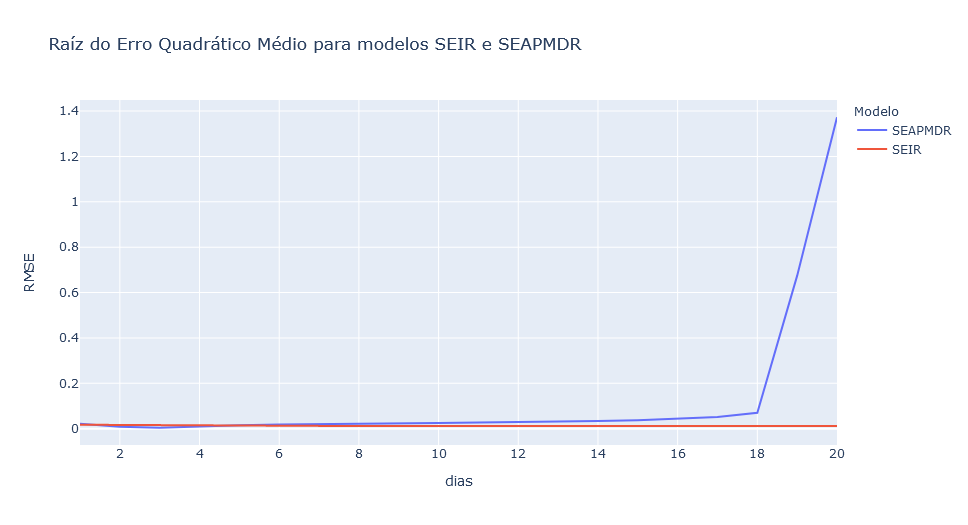
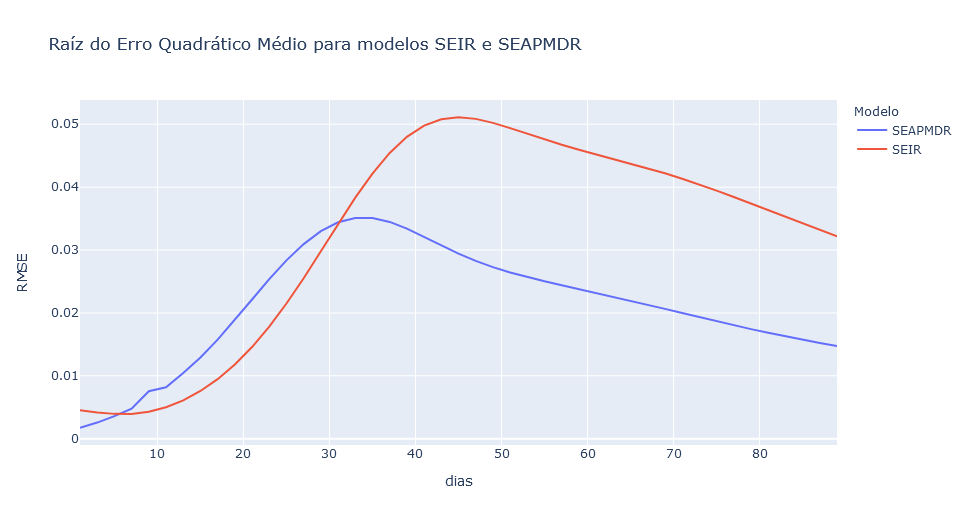
Update RMSE plot

diff --git a/README.md b/README.md
@@ -337,7 +337,7 @@ infectados per capita) - ou seja, quanto menor, melhor.
 
 O procedimento completo para a comparação dos modelos encontra-se no notebook
 [`analysis.ipynb`]. Acima, reproduz-se uma visualização dos resultados,
-comparando as previsões de melhor cenário em até 21 dias para ambos os modelos.
+comparando as previsões de melhor cenário em até 90 dias para ambos os modelos.
 
 Conforme se pode pode observar na figura, ambos os modelos tem resultados
 bastante parecidos nos primeiros dias. Porém, o modelo original (SEIR) tende a
